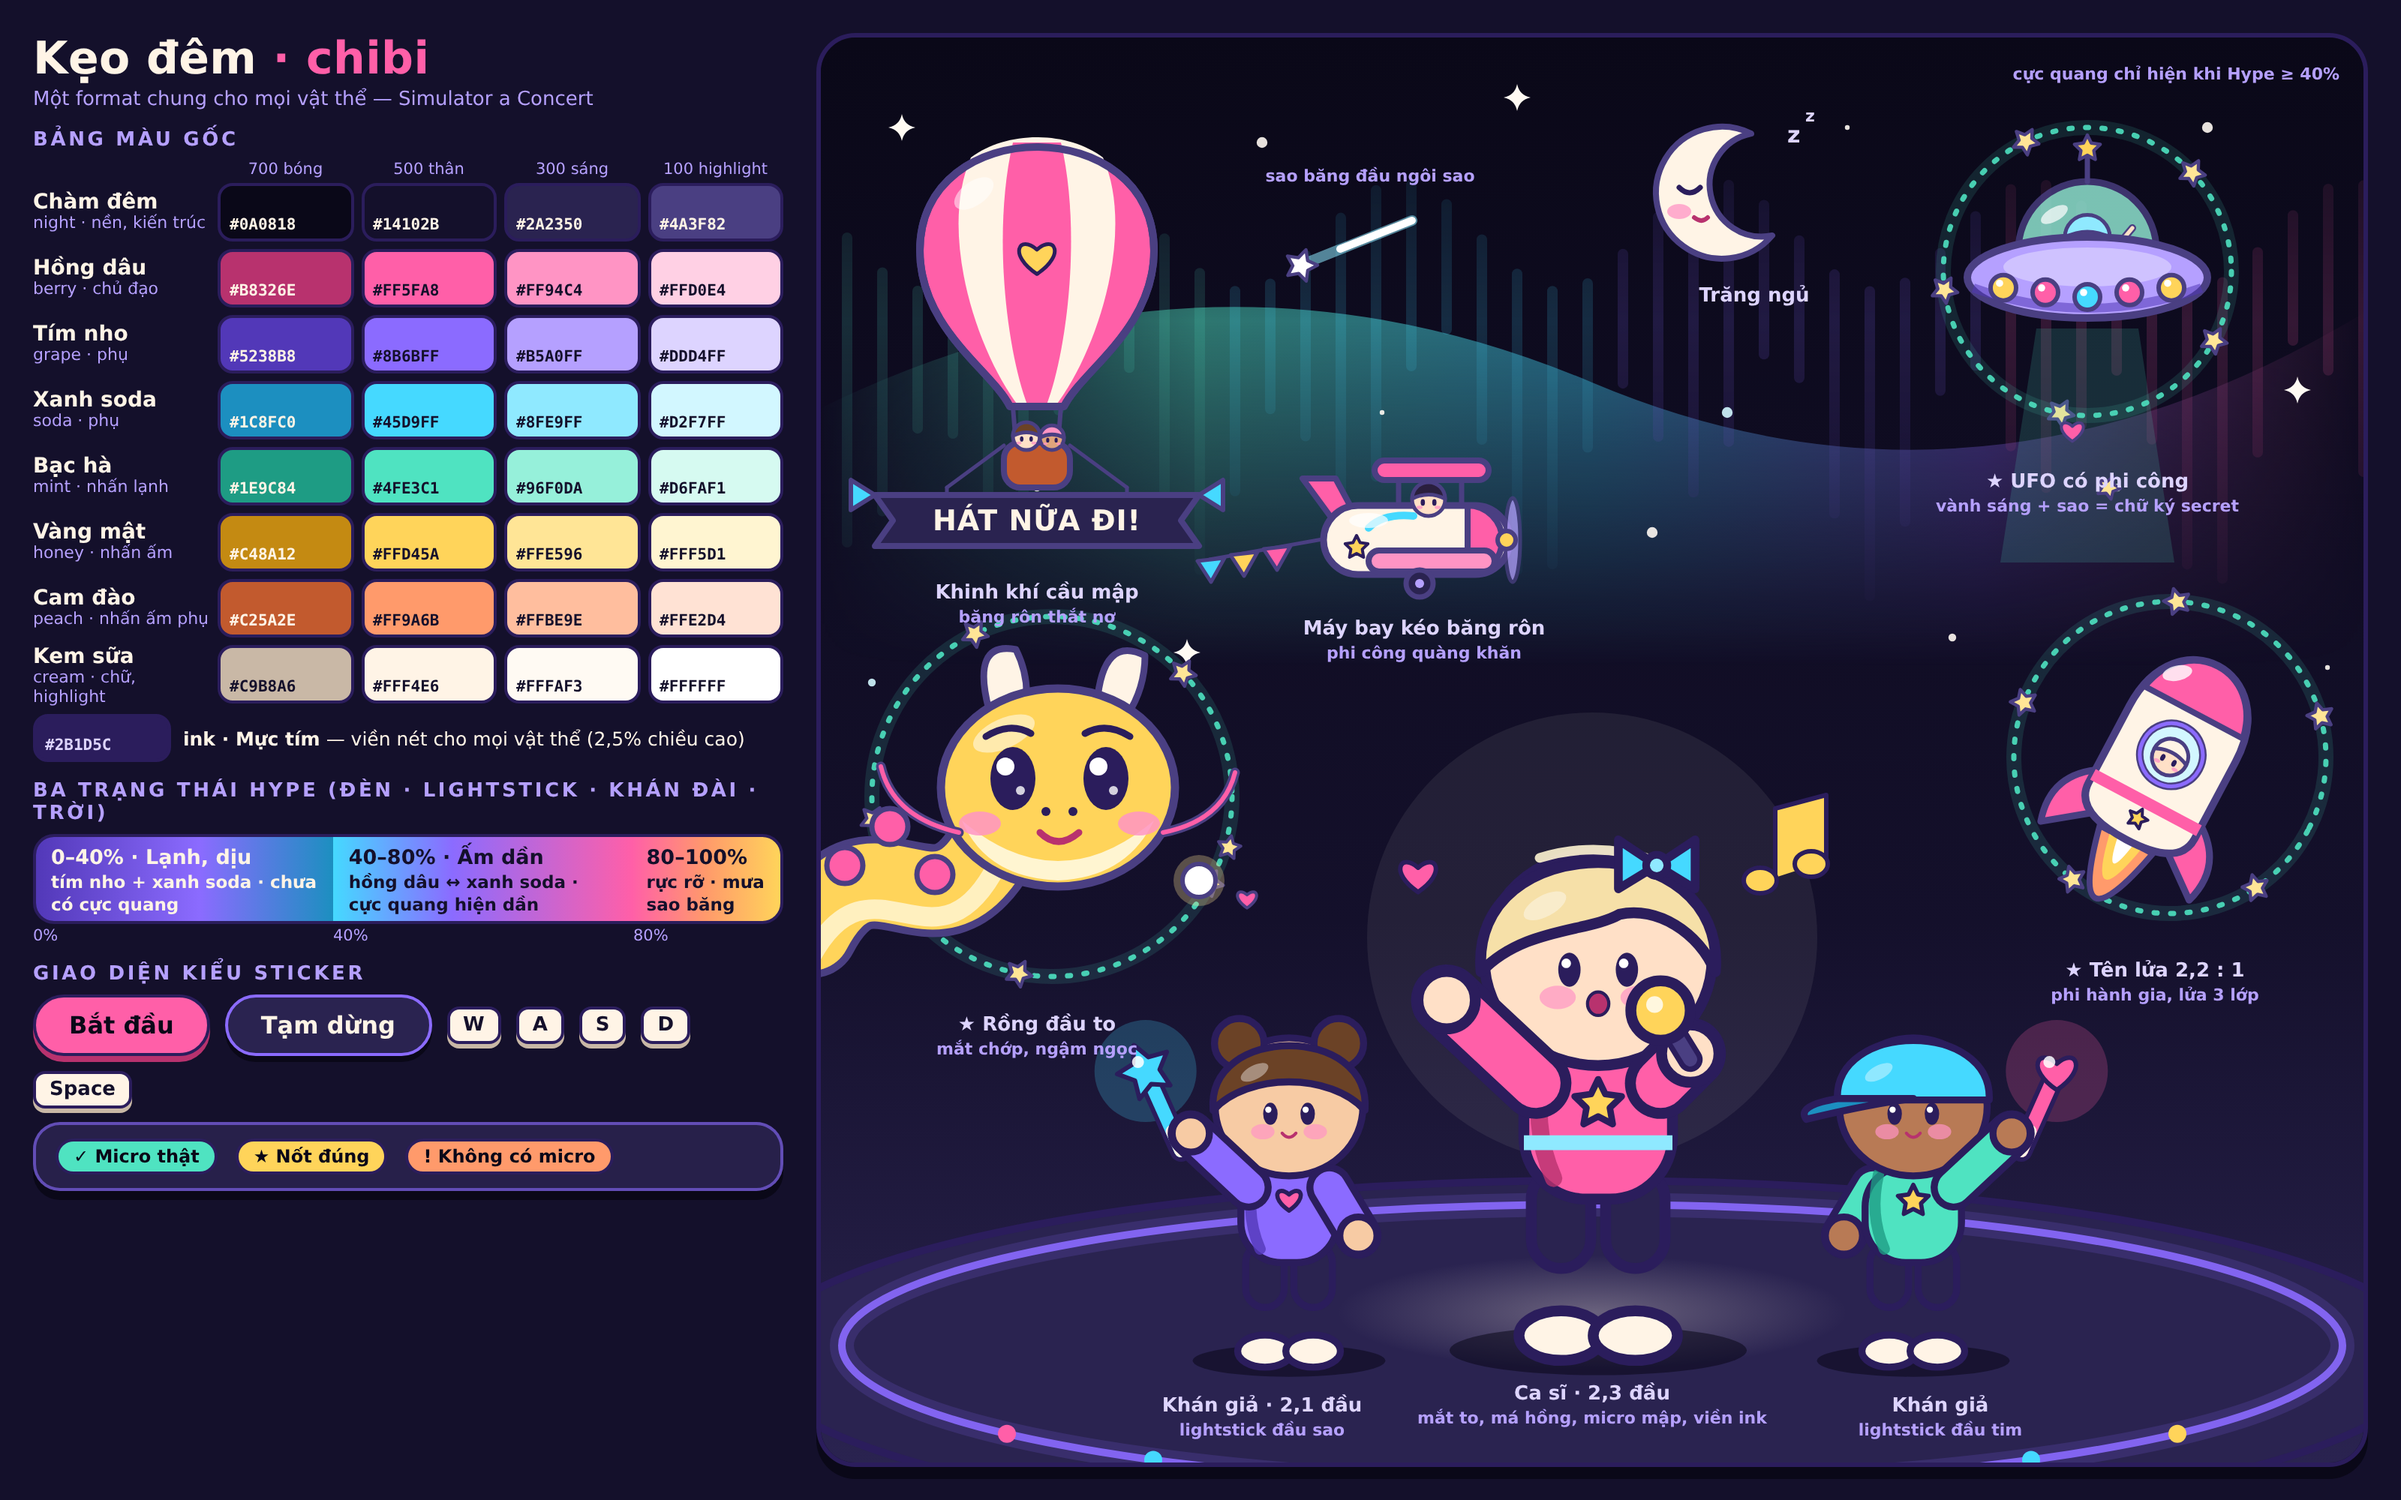
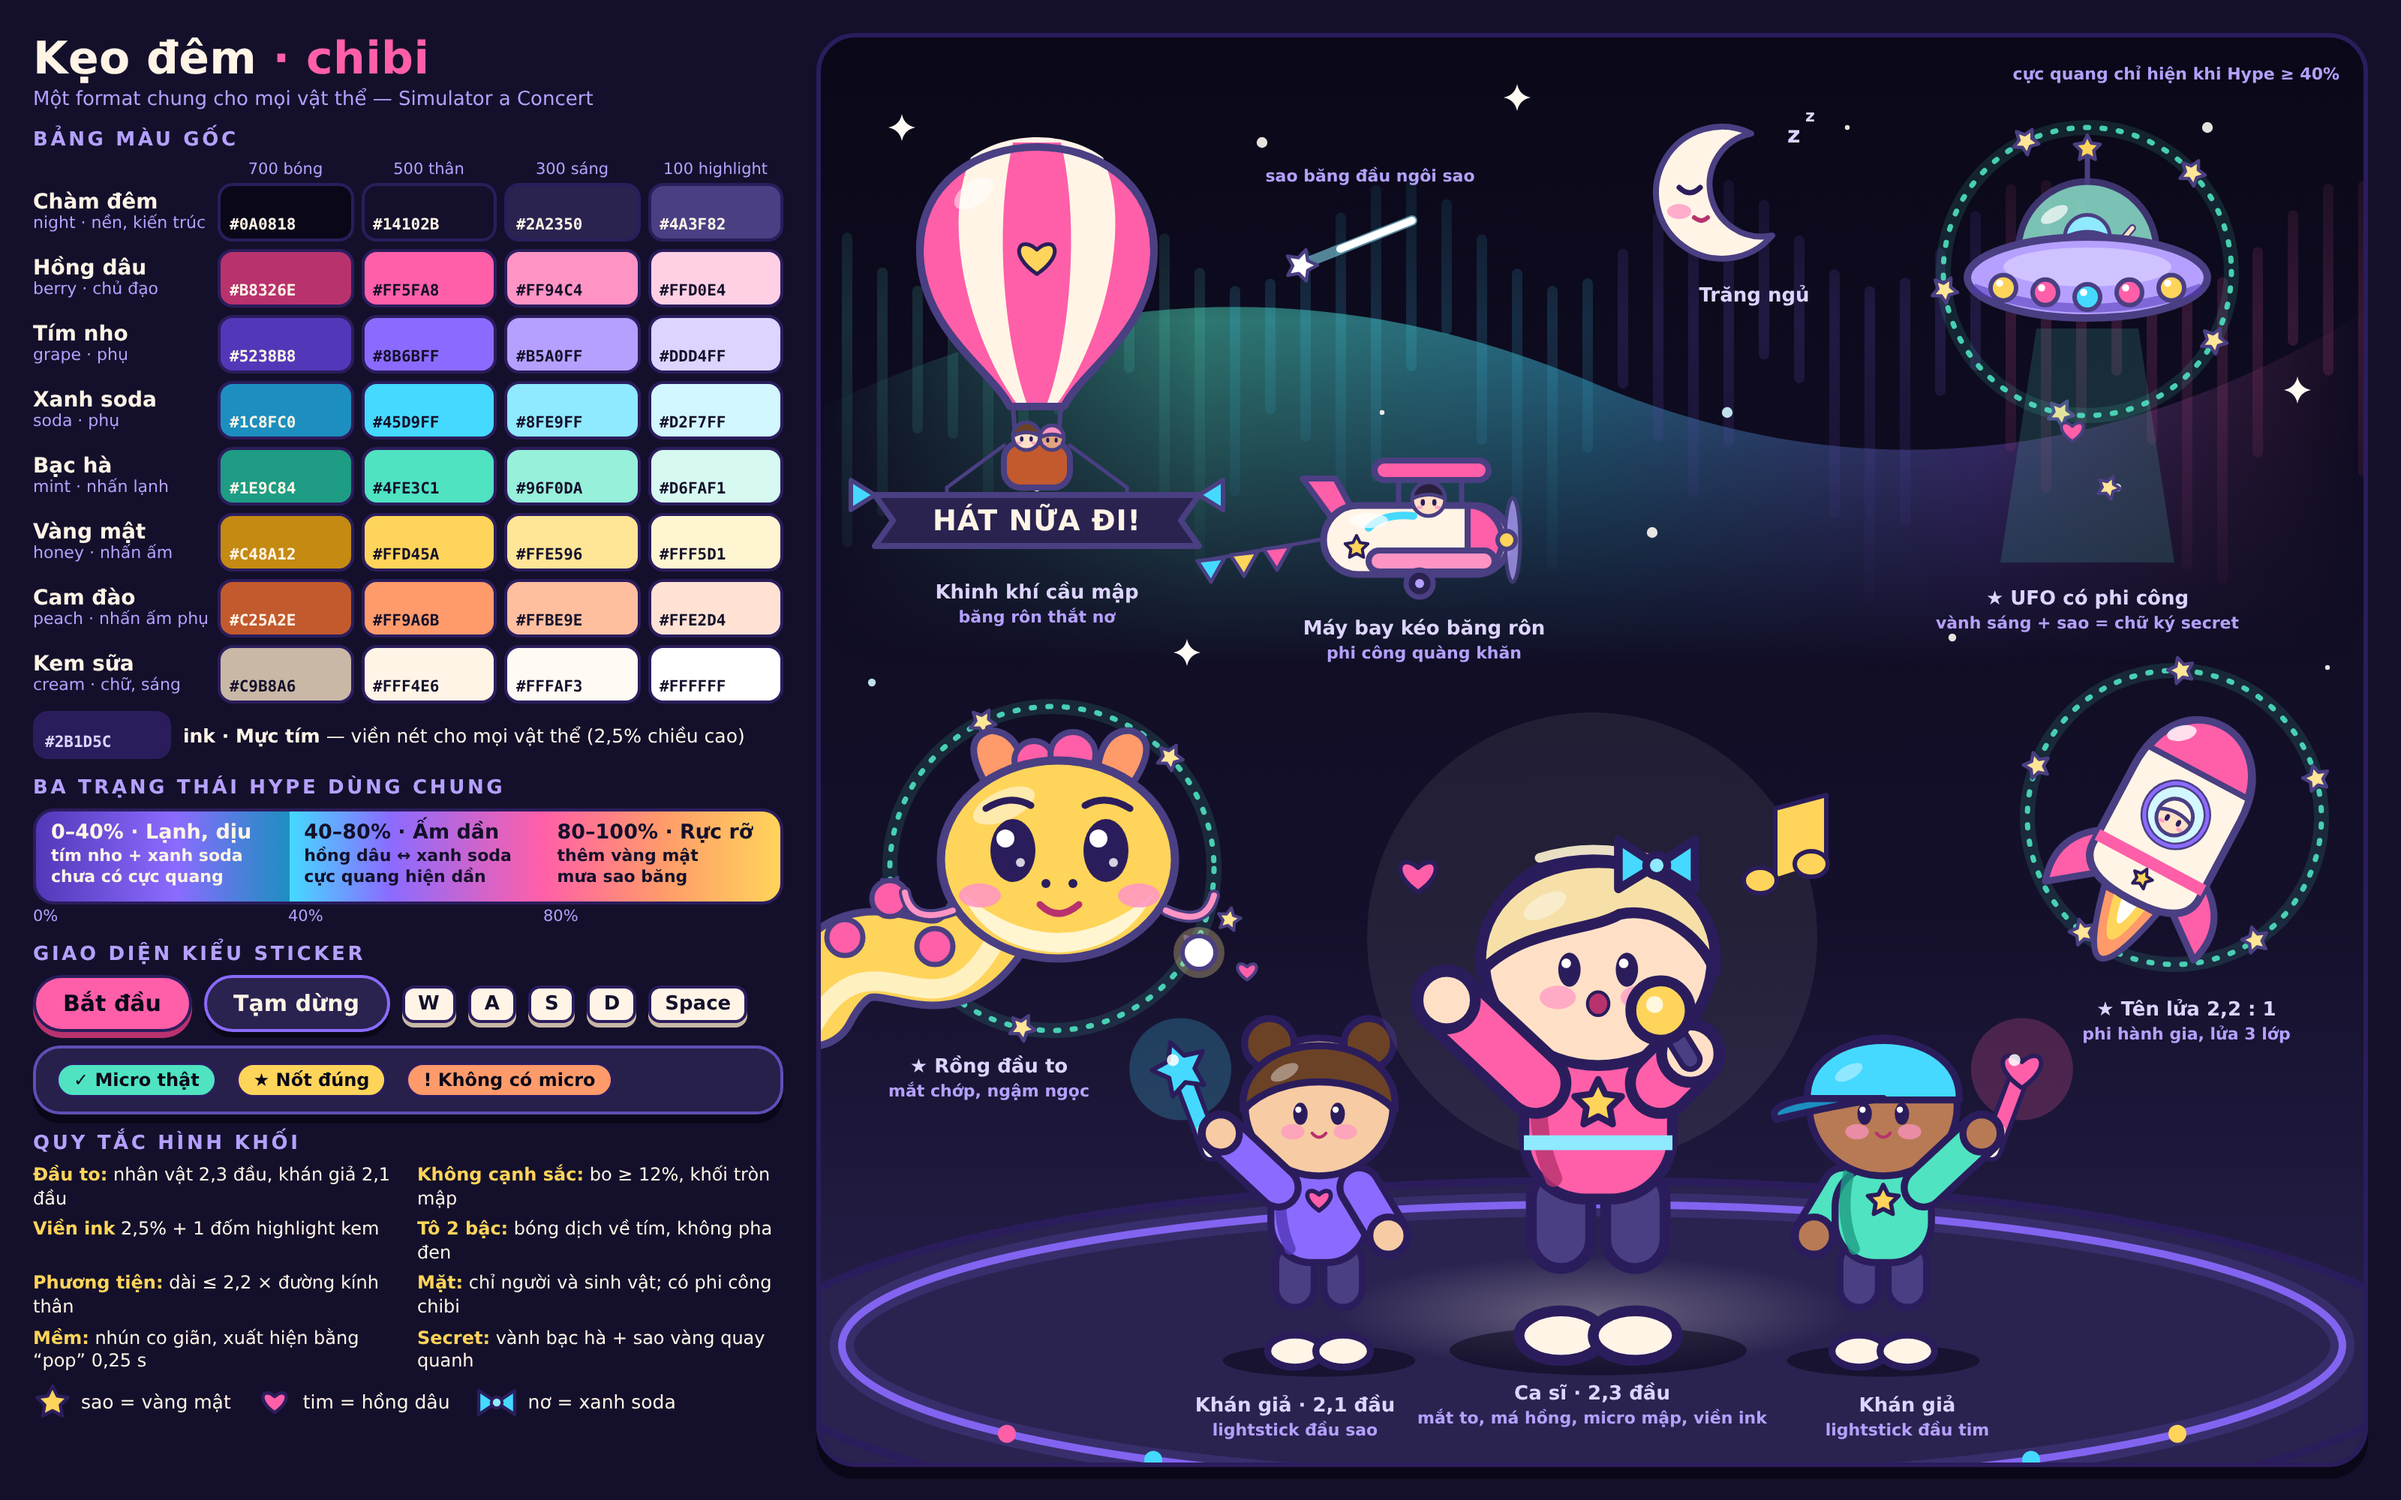
Add architecture guide for the three-zone layout
Claude-Session: https://claude.ai/code/session_01UkGQQ4RpNpcBj1LgUVAwNq

diff --git a/docs/ARCHITECTURE.md b/docs/ARCHITECTURE.md
@@ -1,0 +1,75 @@
+# Kiến trúc mã nguồn
+
+Cảnh 3D được chia thành **ba khu** theo khoảng cách tới người chơi. Mỗi vật thể thuộc đúng một khu.
+
+| Khu | Thư mục | Phạm vi |
+|---|---|---|
+| 1. Ngoài sân vận động (xa nhất) | `src/zones/outside/` | Bầu trời và mọi thứ bay trên trời |
+| 2. Khán đài (ở giữa) | `src/zones/stands/` | Chỗ ngồi vòng quanh sân, bán kính 84–120 m |
+| 3. Sân trung tâm (gần nhất) | `src/zones/arena/` | Sân khấu, đường đi, người chơi, khán giả sân (tới 62 m) |
+
+## Sơ đồ thư mục
+
+```
+src/
+  main.ts            luồng game: sảnh → chào sân → đếm ngược → diễn → kết quả; nối UI, âm thanh, world
+  core/              kiểu dữ liệu (FrameState…), vòng lặp, thời gian
+  world/
+    world.ts         NƠI DUY NHẤT ghép ba khu: renderer, scene, camera, gọi update từng khu
+    layout.ts        NGUỒN DUY NHẤT của kích thước dùng chung (cao độ, bán kính, vị trí)
+    zone.ts          hợp đồng Zone / ZoneContext
+    zones.test.ts    test giữ ranh giới giữa các khu
+    shared/          uniform dùng chung + điểm sáng dùng chung (1 draw call cho cả hai khu xa)
+  zones/
+    outside/ stands/ arena/   mỗi khu: index.ts (điểm vào duy nhất) + README.md + các file riêng
+  audio/ mic/ scoring/ song/ ui/   không phụ thuộc vào zones
+```
+
+## Quy tắc phụ thuộc
+
+1. File trong một khu chỉ import từ **chính khu đó**, `src/core` và `src/world`. Khu không import chéo nhau.
+2. Mã ngoài khu (`main.ts`, `world.ts`) chỉ import `zones/<khu>` (tức `index.ts`), không import file bên trong.
+3. Kích thước dùng chung lấy từ `world/layout.ts`; không chép lại số vào từng file.
+4. Khu trao đổi với nhau chỉ qua `FrameState` (world truyền mỗi frame) và các sự kiện dưới đây.
+
+Quy tắc 1 và 2 được kiểm bằng `src/world/zones.test.ts` (chạy cùng `npm test`).
+
+## Mỗi frame
+
+`main.ts` dựng `FrameState` → `world.update(f)` → cập nhật uniform chung → `arena.update` → `outside.update`
+→ `stands.update` → `world.render()`. Thứ tự tạo khu là từ xa tới gần: outside → stands → arena.
+
+## Sự kiện giữa các khu (CustomEvent trên `window`)
+
+| Tên | `detail` | Ai phát | Ai nghe |
+|---|---|---|---|
+| `cs-interact` | `{ kind: 'cheer'｜'wave'｜'heart'｜'flash'｜'pyro', on? }` | `main.ts` (phím 1–5, menu thử) | stands (`stadium.ts`) |
+| `cs-secret` | `{ kind: 'ufo'｜'rocket'｜'dragon'｜'jet'｜'plane', phase: 'start'｜'end' }` | outside (`secretShared.ts`) | `main.ts` (đổi góc máy) |
+| `cs-entrance` | `{ kind: 'jump'｜'lift'｜'cable', phase: 'start'｜'land'｜'end' }` | arena (`entrance.ts`) | `main.ts` (bắt đầu nhạc, reo hò) |
+| `cs-view` | `{ mode }` | arena (`stageControls.ts`) | `main.ts` (nhãn góc máy) |
+| `cs-mouselook` | `{ on }` | arena (`stageControls.ts`) | `main.ts` (gợi ý chuột tự do) |
+
+## Vật thể → khu → file
+
+| Vật thể | Khu | File |
+|---|---|---|
+| Vòm trời, sao, sao băng, trăng, cực quang, máy bay chở khách | outside | `sky.ts` |
+| Khinh khí cầu + băng rôn cổ vũ | outside | `balloons.ts` |
+| Máy bay kéo băng rôn (Hype đạt đỉnh) | outside | `flyby.ts` |
+| UFO, tên lửa, rồng, máy bay phản lực | outside | `secretUfo.ts` `secretRocket.ts` `secretDragon.ts` `secretJet.ts` |
+| Tầng khán đài, khán giả chấm sáng, đèn nhà, cột đèn pha | stands | `stadium.ts` |
+| Sàn diễn, mặt đất nền, tường LED, cánh gà | arena | `stageBase.ts` `ledWall.ts` |
+| Mái giàn, tháp, loa, nhạc cụ, hàng rào, cổng đèn | arena | `stageDeco*.ts` |
+| Runway, bục, sân khấu phụ | arena | `walkLayout.ts` `stageRunway.ts` |
+| Người chơi, camera, góc máy | arena | `stageControls.ts` `cameraCrew.ts` |
+| Ca sĩ, nhạc công | arena | `singer.ts` `band.ts` |
+| Khán giả sân + lightstick | arena | `crowd.ts` + `crowd.*.glsl` |
+| Đèn sân khấu, laser, pháo hoa, pháo giấy, biểu tượng cảm xúc | arena | `lights.ts` `stageFx.ts` `confetti.ts` `emotes.ts` |
+| Hai màn hình LED lớn | arena | `ledScreens.ts` |
+| Màn chào sân | arena | `entrance.ts` `entranceProps.ts` |
+
+## Đổi cao độ sân khấu
+
+Sửa `STAGE_Y` / `FIELD_Y` trong `world/layout.ts`. Các chỗ đã đọc từ đó: khán giả sân, biểu tượng cảm xúc,
+thân runway, mép sân khấu, mặt đất nền, cầu thang + hàng rào hố, đội quay phim, sự kiện trên trời.
+Các chỗ còn số cứng (cần rà khi đổi) được liệt kê ở đầu `world/layout.ts` mục "Chưa chuyển".

diff --git a/README.md b/README.md
@@ -102,5 +102,6 @@ Các tương tác có thời gian chờ 4 giây và chỉ làm khán giả sôi 
 
 ## Tài liệu
 
+- `docs/ARCHITECTURE.md` — cấu trúc mã nguồn theo ba khu (ngoài sân, khán đài, sân trung tâm), quy tắc phụ thuộc
 - `docs/PLAN.md` — plan demo 1, gói việc, quyết định đã chốt
 - `docs/discussion/` — đề xuất của Architect và Game dev
